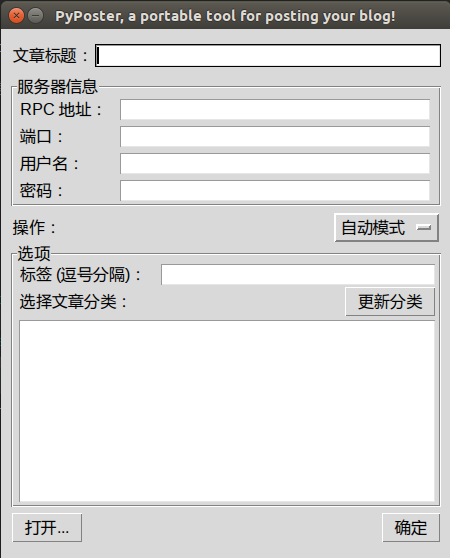
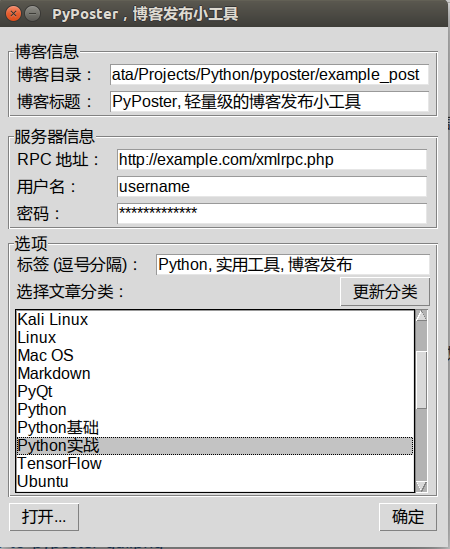
更新样例

diff --git a/example_post/PyPoster, 轻量级的博客发布小工具.md b/example_post/PyPoster, 轻量级的博客发布小工具.md
@@ -1,38 +1,63 @@
 # PyPoster：轻量级的博客发布小工具
 ## 介绍
-**PyPoster** 是一个采用 Python 3.5 编写的博客离线发布小工具，GUI 采用 `tkinter` 框架构建，所以可以在安装了 Python 运行环境的多种平台下使用它。`PyPoster` 目前还只是一个简单的原型，暂时只支持 `Wordpress` 博客的 XMLRPC 接口。
+**PyPoster** 是一个采用 Python 3.5 编写的博客离线发布小工具，GUI 采用 `tkinter` 框架构建，所以可以在安装了 Python 运行环境的多种平台下使用它。`PyPoster` 目前还只是一个简单的原型，暂时只支持 Wordpress 博客的 XML-RPC 接口。
 
 ## 为什么会有 PyPoster
 以前在 Windows 平台下，会经常使用 WizNote 写东西，然后使用 WizNote 的博客发布功能进行发布。但是切换到 Ubuntu 或者 Mac OS 后，就只能使用 WizNote 的开源版本了，可惜那个版本没有 Windows 平台那么强大，所以也没有博客发布工具。所以就一直希望能有这么一款小工具，可以协助发布离线编写的文章。一开始是想找找有没有别人写的类似的小工具，但是并没有发现。由于平时主要使用 Ubuntu 系统，所以想找到一款可以在这个平台上运行又符合需求的小工具着实不易。于是 **PyPoster** 就诞生了。
 
 ## 功能支持
-**Note**: 由于目前还是原型，所以只支持少量暂时用到的功能。
-
+**Note**: 由于目前只是 Prototype，所以暂时只支持少量用到的功能。
+- [x] 支持命令行交互模式和 GUI 模式（GUI 和 PyPoster 可以分离）；
 - [x] 支持 Markdown 格式的博客发布功能（没有像 WizNote 那样可将 Markdown 文档选渲染后再发布的功能，主要是想用网站自定义的 Markdown 主题）；
-- [x] 支持媒体文件（主要是图片）的自动上传功能；
+- [x] 支持媒体文件（主要是图片）的自动上传功能。
 
 ## 简要工作流程
+
 ![flow](images/flow.png)
+
 
 ## 安装 & 运行
 - pass
 
+
 ## 使用流程
-1. 创建一个目录，专门用于放置离线博客文档和相应的媒体文件。
-2. 使用你喜欢的编辑器创建并编辑你的博客文档（我喜欢使用 gedit 写 Markdown 博客）；如果期间需要插入图片，只需要将图片命名后存放在与博客文档同目录下的`media`子目录，并在文档中链接到图片即可（博客发布后会自动将图片链接替换成实际的 URL）。
-3. 当你完成博客后，目录结构应该和下面的类似：
+1. 创建一个目录，专门用于放置离线博客文档（Markdown格式）和相应的图片文件（`images` 目录）。
+1. 使用你喜欢的编辑器创建并编辑你的博客文档（我喜欢使用 gedit 写 Markdown 博客）；如果期间需要插入图片，只需要将图片存放在与博客文档同目录下的 `images` 子目录，并在博客中引用图片即可（博客发布后会自动将图片地址替换成实际的 URL）。
+1. 当你完成博客后，目录结构应该和下面的类似：
 
     ```
-    post_foo/（存放博客文档和媒体资源的目录）
-    ├── blog.md（博客文档，可以使用你自己的文章标题命令）
-    └── images（存放你在博客中引用的资源文件，如图片）
-        └── foo.png （图片文件）
+    example_post/（存放博客文档和图片的目录）
+    ├── images  （存放图片的目录）
+    │   └── pyposter_gui.png    （图片文件）
+    └── PyPoster, 轻量级的博客发布小工具.md    （博客文档）
     ```
 
-4. 运行 **PyPoster**，点击**打开**按钮，选择存放博客的目录（如例子中给出的 `post_foo` 目录），然后根据提示，填写相应的信息后，点击**确定**按钮即可进行发布。第一次发布完成后，会在博客目录下生成一个 `post.conf` 文件，它记录了发布成功后的博客的 `post_id` 和已经成功上传的图片名称。
+1. GUI 版本发布博客：
+    1. `python3 pyposter_gui.py` 启动带有 GUI 的 PyPoster； 
+    1. 点击**打开**按钮，选择存放博客的目录（如例子中给出的 `post_foo` 目录），然后根据提示，填写相应的信息后，点击**确定**按钮即可进行发布。
 
-![插图](images/pyposter_gui.png)
+    ![GUI](images/pyposter_gui.png)
 
+1. 命令行版本发布博客：
+    1. `python3 pyposter.py` 启动 PyPoster；
+    1. 根据提示填写信息，完成后即可发布；
+    
+    ![Command](images/command_mode.png)
+
+## 小小说明
+- 第一次发布完成后，会在博客目录下生成一个 `post.conf` 文件，它记录了发布成功后的博客的 `post_id` 和已经成功上传的图片名称。所以，还请不要删除这个配置文件。
+- 后期在编辑博客文档后，会自动编辑已经存在的博客，而非新建。
+- 博客配置文件 `post.conf` 格式如下：
+
+    ```
+    {
+        "post_id": "post-id", 
+        "posted_images": {
+            "flow.png": "http://absolute-url-to-flow.png",
+            "pyposter_gui.png": "http://absolute-url-to-pyposter_gui.png"
+        }
+    }
+    ```
 
 ## 依赖
 - [python-wordpress-xmlrpc](https://github.com/maxcutler/python-wordpress-xmlrpc)
@@ -43,4 +68,4 @@
 - 如果有更好的类似工具，请推荐给我，多谢啦！
 
 ## 许可
-Licensed under the [MIT](LICENSE.md) license. 
+[PyPoster](https://github.com/ChrisLeeGit/pyposter) is licensed under the [MIT](LICENSE.md) license. 
